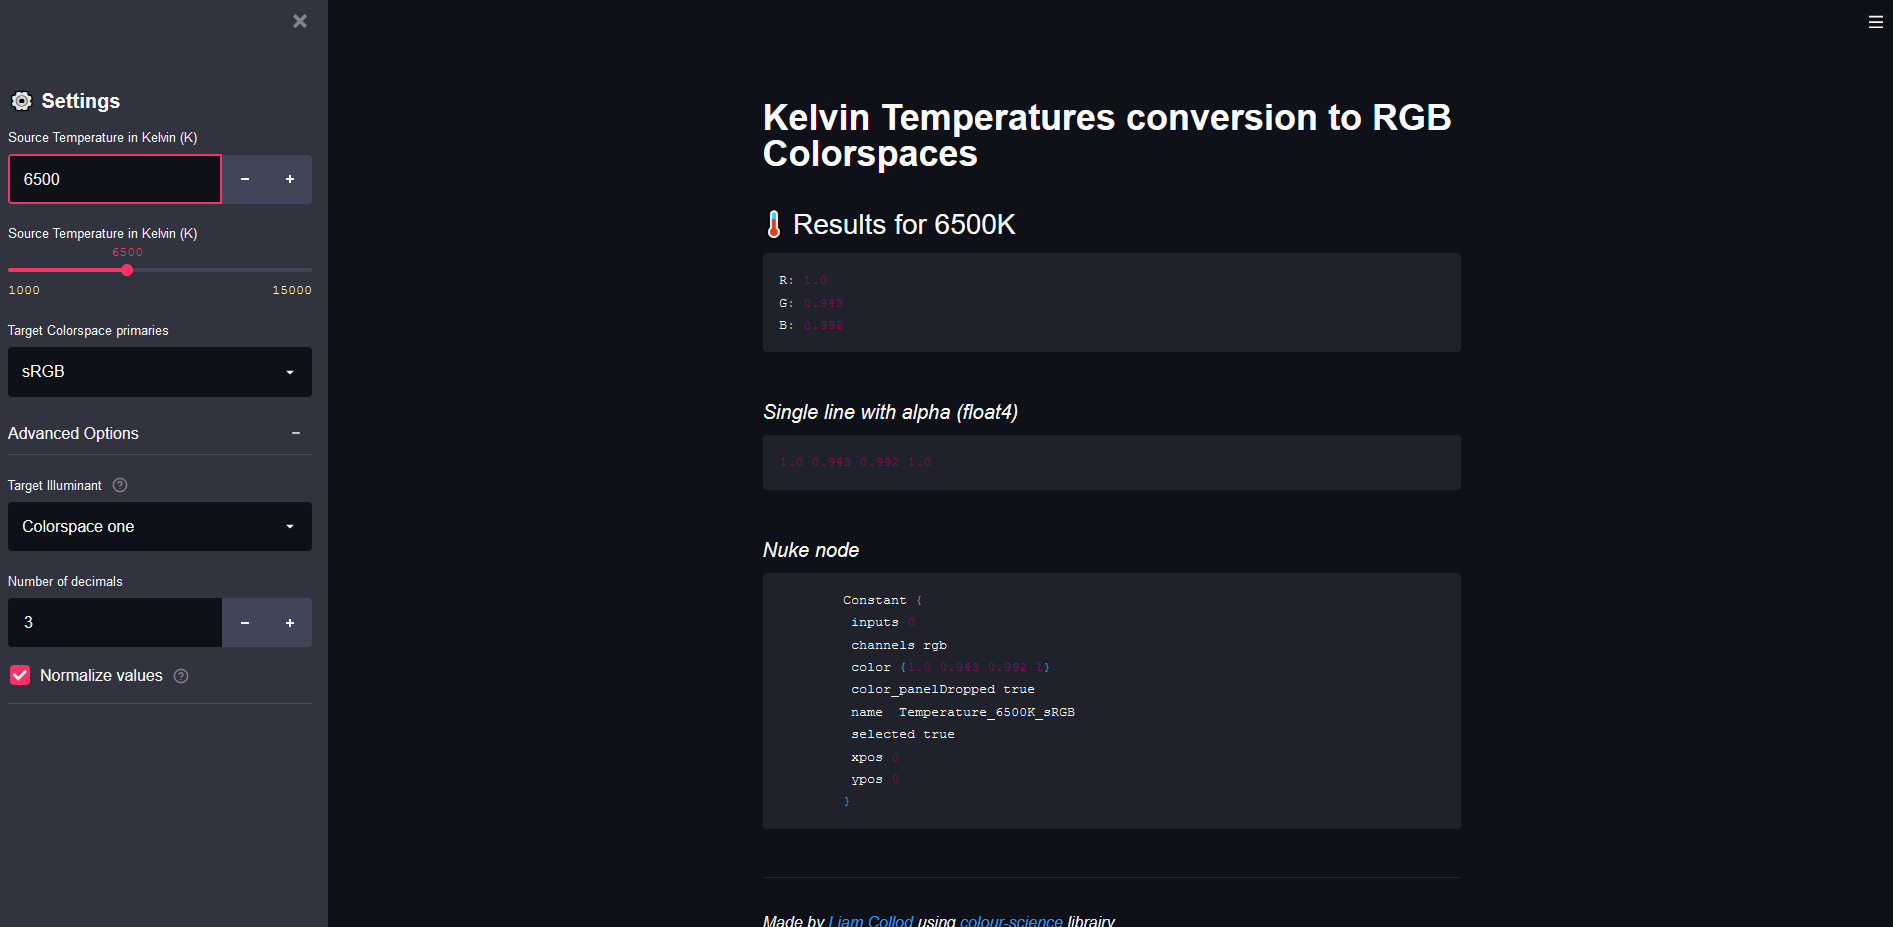
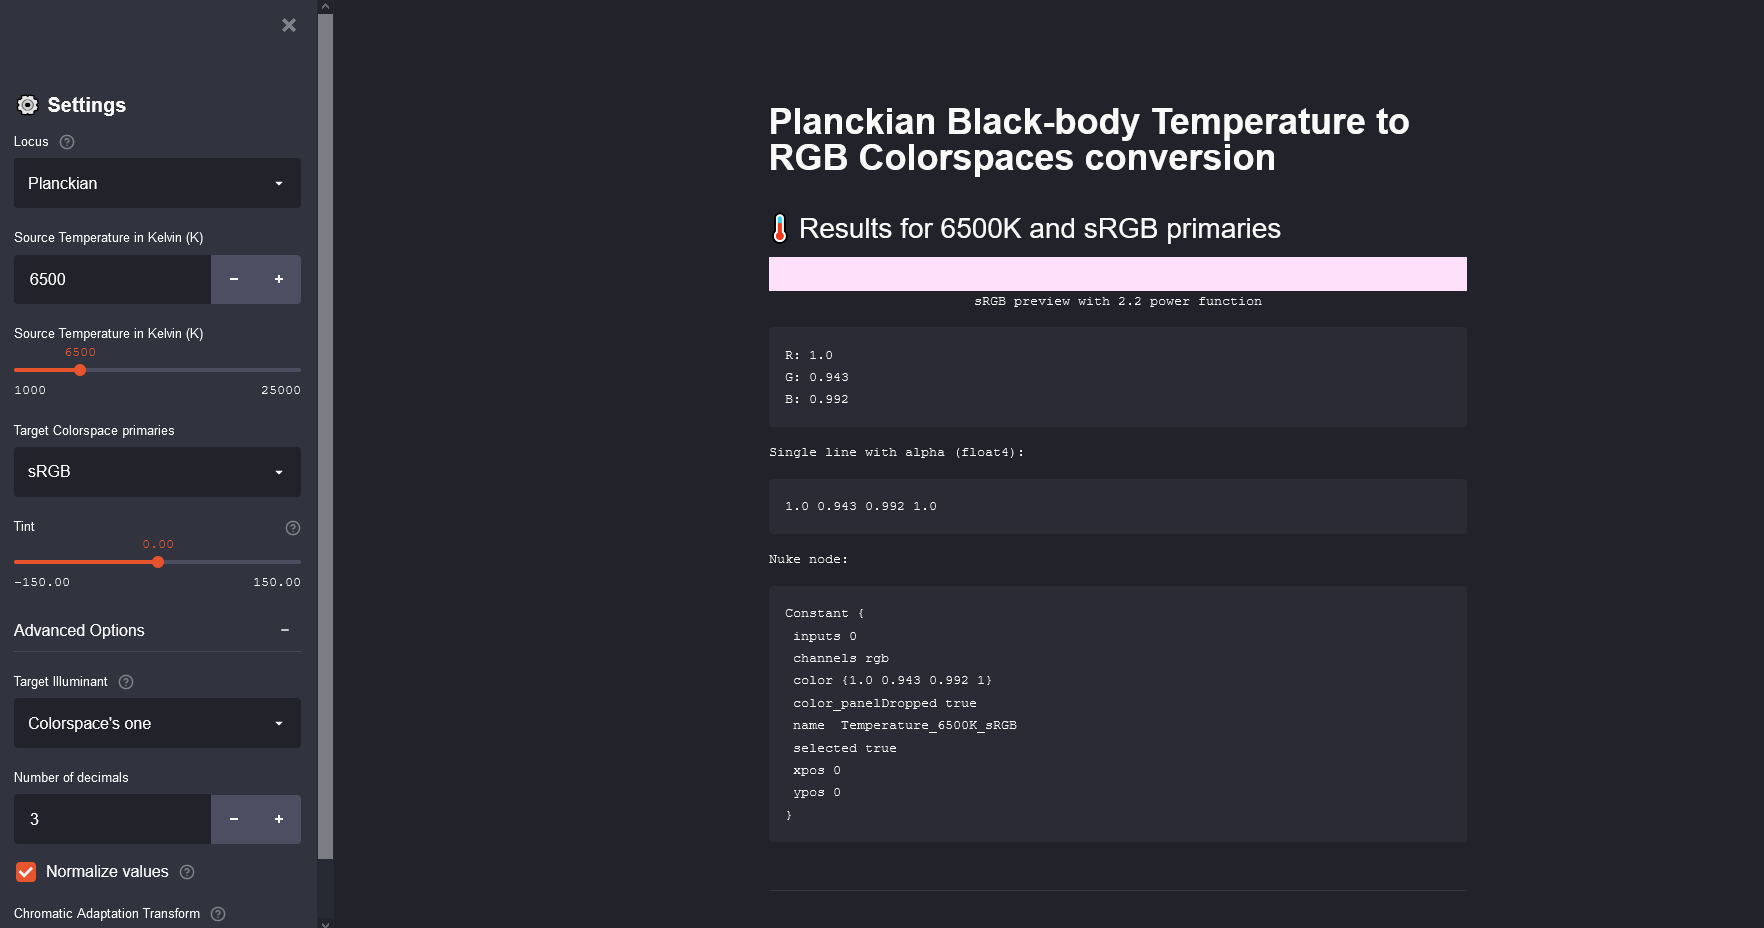
Updated readme for release

diff --git a/README.md b/README.md
@@ -1,8 +1,20 @@
 # Code source for Streamlit application
 
-[App available online here](https://share.streamlit.io/mrlixm/streamlit_temperature2rgb/main/src/app.py)
+[![Open in Streamlit](https://static.streamlit.io/badges/streamlit_badge_black_white.svg)](https://share.streamlit.io/mrlixm/streamlit_temperature2rgb/main/src/app.py)
+
+https://share.streamlit.io/mrlixm/streamlit_temperature2rgb/main/src/app.py
 
 The application allow to convert Kelvin temperatures to RGB with the given
  colorspace primaries.
  
 ![main visual](./_images/main.png)
+
+Additional  settings:
+
+- Target Illuminant.
+- Tint slider for Planckian locus.
+- Normalize values.
+- Chromatic Adaptation Transform.
+
+_Thanks to Thomas Masencal for the help, and Christophe Brejon for
+ investigating about the Daylight Locus._
